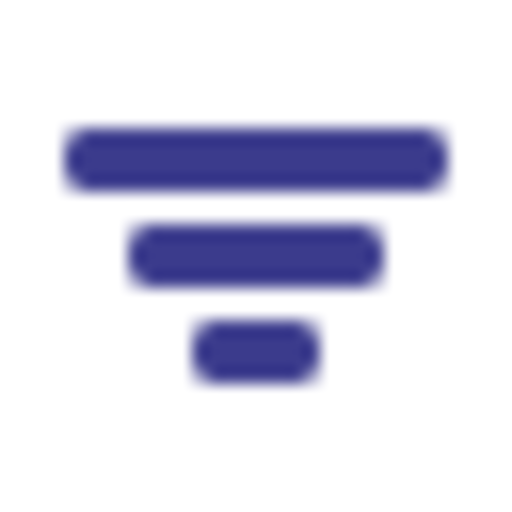
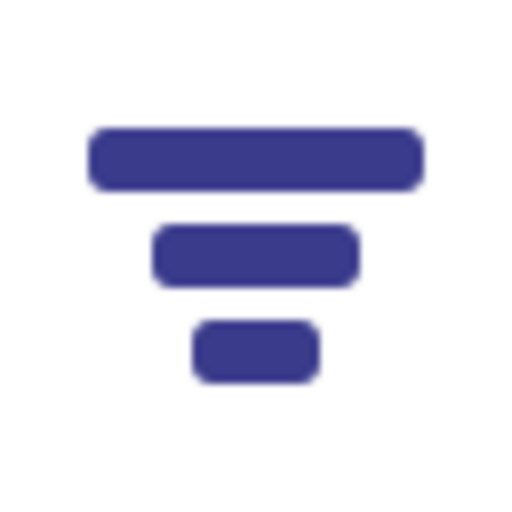
Deploy preview for PR 8 🛫

Changed region(s): [[0.0938, 0.2188, 0.9062, 0.7812]]

diff --git a/pr-preview/pr-8/assets/css/main.css b/pr-preview/pr-8/assets/css/main.css
@@ -16848,15 +16848,17 @@ of the unique scss that your blog needs.
    Constructive Programming — typography pass
 
    Overrides Type-on-Strap's Source-Sans-Pro-everywhere defaults
-   with a serif body, a real monospace, a tighter measure, and
+   with a system-sans body, a real monospace, a tighter measure, and
    sharper heading hierarchy.
 
-   System font stacks — no webfont weight on the critical path.
+   System font stacks — no webfont weight on the critical path. The
+   body uses the same sans stack as the headings; hierarchy comes
+   from weight, size, and tracking, not from a serif/sans contrast.
    ============================================================ */
 /* Brand accent — deep indigo. Used on links, primary buttons, section
    numbers, and the favicon mark. */
 /* lighter for dark-mode + hover */
-/* --- Body: serif, tighter leading, slight optical letter-spacing.
+/* --- Body: sans, tighter leading, slight optical letter-spacing.
 
    Selectors prefixed with `html` to bump specificity to 0,0,2 — Bootstrap
    loads after this stylesheet in the head, so a bare `body { ... }` rule
@@ -16867,7 +16869,7 @@ html .page-content,
 html p,
 html li,
 html blockquote {
-  font-family: "Charter", "Iowan Old Style", "Source Serif Pro", "Apple Garamond", "Palatino", "Georgia", serif;
+  font-family: -apple-system, BlinkMacSystemFont, "Inter", "Segoe UI", "Roboto", "Helvetica Neue", Arial, sans-serif;
   letter-spacing: -0.003em;
 }
 
@@ -16899,7 +16901,7 @@ h2 {
 
 /* --- Lead paragraph: slightly larger, lighter weight ---- */
 .lead {
-  font-family: "Charter", "Iowan Old Style", "Source Serif Pro", "Apple Garamond", "Palatino", "Georgia", serif;
+  font-family: -apple-system, BlinkMacSystemFont, "Inter", "Segoe UI", "Roboto", "Helvetica Neue", Arial, sans-serif;
   font-size: 1.22rem;
   font-weight: 400;
   line-height: 1.5;
@@ -16911,7 +16913,7 @@ code, pre, kbd, samp, tt,
 .highlight,
 pre code {
   font-family: "JetBrains Mono", "Cascadia Code", "Fira Code", "SF Mono", "Menlo", "Consolas", "Liberation Mono", monospace;
-  font-size: 0.94em; /* drop a hair so mono lines vertically beside serif */
+  font-size: 0.94em; /* drop a hair so mono lines vertically beside the body sans */
 }
 
 /* --- Measure: cap prose at ~68ch on wide viewports.
@@ -16957,11 +16959,11 @@ pre code {
   letter-spacing: 0;
 }
 
-/* --- Library / Medium card text: keep serif body, sans titles ---- */
+/* --- Library / Medium card text: same sans as body ---- */
 .card-text,
 .card-subtitle small,
 .card-body small {
-  font-family: "Charter", "Iowan Old Style", "Source Serif Pro", "Apple Garamond", "Palatino", "Georgia", serif;
+  font-family: -apple-system, BlinkMacSystemFont, "Inter", "Segoe UI", "Roboto", "Helvetica Neue", Arial, sans-serif;
 }
 
 .card-title a,
@@ -17082,9 +17084,11 @@ pre code {
   padding-bottom: 1.5rem;
 }
 
-/* Hero "narrowing" graphic — typeset SVG embedded below the lead. */
+/* Hero "narrowing" graphic — typeset SVG embedded below the lead.
+   Wider than the prose column so the longest bar (Bar 1 = 1309 svg-units)
+   renders with text at a comfortable display size. */
 .home .hero-figure {
-  max-width: 720px;
+  max-width: 1080px;
   margin-top: 1.5rem;
   margin-bottom: 0.5rem;
 }